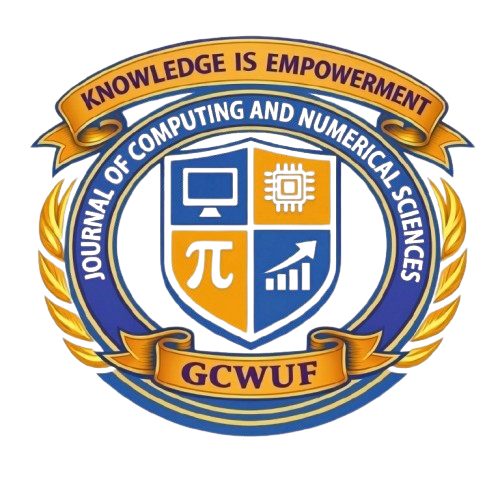
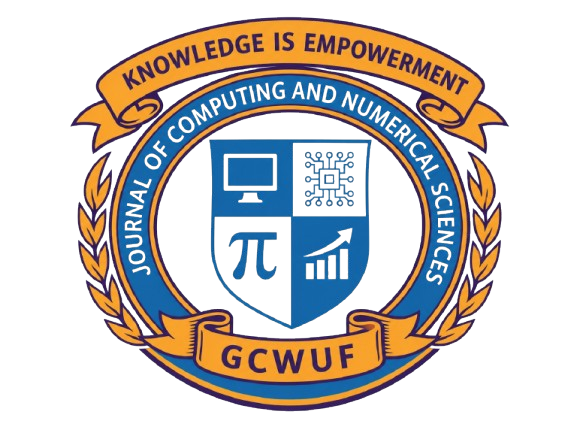
Color changes on homepage

diff --git a/index.html b/index.html
@@ -22,11 +22,7 @@
         }
 
         /* Header Layout */
-        .top-bar {
-            background-color: #1b8415;
-            color: white;
-            padding: 10px 0;
-        }
+        
 
         .header-banner-wrapper {
             position: relative;
@@ -75,13 +71,14 @@
         }
 
         .banner-content h1 {
-            color: #0000ff;
+            color: #3266ac;
+            /* backdrop-filter: blur (10px); */
             margin: 10px 0;
             font-size: 2.2rem;
         }
 
         .row-three {
-            background: radial-gradient(rgba(6, 147, 227, 1) 0%, rgb(155, 81, 224) 100%);
+            background: radial-gradient(#3266ac 100%, #f3c30e 0%);
             padding: 12px 0;
         }
 
@@ -122,11 +119,11 @@
         }
 
         .role-header {
-            color: #0000ff;
+            color: #3266ac;
             font-size: 20px;
             font-weight: bold;
             margin-bottom: 10px;
-            border-bottom: 1px solid #f0f0f0;
+            border-bottom: 1px solid #3266ac;
             padding-bottom: 8px;
         }
 
@@ -178,13 +175,13 @@
         }
 
         .call-title {
-            color: #ff0000;
+            color: #3266ac;
             font-size: 22px;
             font-weight: bold;
         }
 
         .call-month {
-            color: #0000ff;
+            color: #3266ac;
             font-size: 20px;
             font-weight: bold;
             margin-bottom: 10px;
@@ -193,7 +190,8 @@
         .author-desk-title {
             text-align: left;
             font-size: 22px;
-            border-bottom: 3px solid #1b8415;
+            border-bottom: 3px solid #3266ac;
+            border-color: #3266ac;
             padding-bottom: 5px;
             margin-bottom: 15px;
             font-weight: bold;
@@ -216,7 +214,7 @@
 
         .sidebar-list li::before {
             content: '▶';
-            color: #1b8415;
+            color: #3266ac;
             font-size: 10px;
             margin-right: 10px;
         }
@@ -234,6 +232,7 @@
         }
 
         .vc-container {
+            color: #3266ac;
             max-width: 1100px;
             margin: auto;
             display: flex;
@@ -269,7 +268,8 @@
         }
 
         .vc-content h2 {
-            border-bottom: 2px solid #1e3a8a;
+            color: #3266ac;
+            border-bottom: 2px solid ;
             padding-bottom: 8px;
             margin-bottom: 15px;
         }
@@ -320,11 +320,11 @@
                 <div class="banner-content">
                     <div class="container">
                         <img src="uni.png" alt="GCWUF" height="150px" align="left">
-                        <img src="journal.png" alt="Journal FCNS" height="250px">
+                        <img src="journal.png" alt="Journal FCNS" height="200px">
                         <img src="logo.png" alt="Logo" height="150px" align="right">
                         <h1>Journal of Computing and Numerical Sciences</h1>
                         <p>A National Peer-Reviewed Journal</p>
-                        <h3>ISSN: <span style="color: #339966;">0000-1111</span></h3>
+                        <h3 style="color: #3266ac;">ISSN: <span style="color: #f3c30e;">0000-1111</span></h3>
                     </div>
                 </div>
             </div>
@@ -356,7 +356,7 @@
         <div class="main-layout">
             <section class="content-side">
                 <div class="entry-content">
-                    <h2>Welcome to The FCNS Journal</h2>
+                    <h2 style="color: #3266ac;">Welcome to The FCNS Journal</h2>
                     <h3 style="color: #000;">DOI: 00.00000/FCNS | Impact Factor: 0.000 | ISSN: 0000-1111</h3>
 
                     <p><strong>Faculty of Computing and Numerical Science (FCNS)</strong> is an nationally
@@ -408,8 +408,7 @@
                         <div class="vc-image">
                             <img src="img2.jpeg" alt="Coordinator">
                             <h4>PROF. DR. SAIMA AKRAM</h4>
-                            <p>Professor,Mathematics
-                                Chairparson</p>
+                            <p>Coordinator of Faculty of Computing and Numerical Sciences</p>
                         </div>
 
                         <!-- Text Side -->
@@ -441,41 +440,41 @@
 
             <aside class="secondary-sidebar">
                 <div >
-                    <img src="title.jpeg" alt="" height="500px" width="400px">
+                    <img src="title.jpeg" alt="" height="500px" width="450px">
                 </div>
                 <div class="call_for_paper">
-                    <h3 style="color: red; margin-top: 0;">Call for Articles</h3>
+                    <h3 style="color: #3266ac; margin-top: 0; border-color: #3266ac;">Call for Articles</h3>
                     <p>February 2026</p>
                     <p><strong>Last Date:</strong> 25/02/2026</p>
                 </div>
                 <div class="sidebar-card">
                     <div class="author-desk-title">Author's Desk</div>
                     <ul class="sidebar-list">
-                        <li>AIM & SCOPE</li>
-                        <li><a href="authors.html">AUTHOR GUIDELINES</a></li>
-                        <li>JOIN AS REVIEWER</li>
-                        <li>PEER REVIEW PROCESS</li>
-                        <li>PUBLICATION ETHICS</li>
-                        <li><a href="plag.html">PLAGIARISM POLICY</a></li>
-                        <li>INDEXING</li>
+                        <li><a href="#" style="color: #3266ac;">AIM & SCOPE</a></li>
+                        <li><a href="authors.html" style="color: #3266ac;">AUTHOR GUIDELINES</a></li>
+                        <li><a href="#" style="color: #3266ac;">JOIN AS REVIEWER</a></li>
+                        <li><a href="#" style="color: #3266ac;">PEER REVIEW PROCESS</a></li>
+                        <li><a href="#" style="color: #3266ac;">PUBLICATION ETHICS</a></li>
+                        <li><a href="plag.html" style="color: #3266ac;">PLAGIARISM POLICY</a></li>
+                        <li><a href="#" style="color: #3266ac;">INDEXING</a></li>
                     </ul>
                 </div>
             </aside>
         </div>
     </main>
 
-    <footer>
+    <footer style="background-color: #3266ac; color: #ffffff;">
         <div class="container footer-content">
             <div class="quick-links">
-                <h3>Quick Links</h3>
-                <ul>
-                    <li><a href="#">Copyright Form</a></li>
-                    <li><a href="#">Check Paper Status</a></li>
-                    <li><a href="#">Privacy Policy</a></li>
+                <h3 style="color: #ffffff;">Quick Links</h3>
+                <ul style="color: #ffffff;">
+                    <li><a href="#" style="color: #ffffff;">Copyright Form</a></li>
+                    <li><a href="#" style="color: #ffffff;">Check Paper Status</a></li>
+                    <li><a href="#" style="color: #ffffff;">Privacy Policy</a></li>
                 </ul>
             </div>
             <div class="contact-info">
-                <h3>Contact Us</h3>
+                <h3 style="color: #ffffff;">Contact Us</h3>
                 <p>Government College Women University Faisalabad,</p>
                 <p>Email: fcns.journal@gcwuf.edu.pk</p>
             </div>
@@ -484,7 +483,7 @@
             <div class="copyright">
                 Designed by <strong><span><a
                             href="https://depart.gcwuf.edu.pk/teaching/computerscience/teacher.php?t=2338"
-                            target="_blank">Fayqa Manan</a></span></strong>.
+                            target="_blank" style="color: #ffffff;">Fayqa Manan</a></span></strong>.
             </div>
         </div>
     </footer>

diff --git a/style.css b/style.css
@@ -111,7 +111,7 @@
 
         .call_for_paper {
             text-align: center;
-            border: 2px solid #ff0000;
+            border: 2px solid #3266ac;
             padding: 15px;
             margin-bottom: 20px;
         }
@@ -132,6 +132,7 @@
         .quick-links ul {
             list-style: none;
             padding: 0;
+            color: #ffffff;
         }
 
         .quick-links a {

diff --git a/archive.html b/archive.html
@@ -333,7 +333,7 @@
             <div class="copyright">
                 Designed by <strong><span><a
                             href="https://depart.gcwuf.edu.pk/teaching/computerscience/teacher.php?t=2338"
-                            target="_blank">Fayqa Manan</a>/span></strong>.
+                            target="_blank">Fayqa Manan</span></a></strong>.
             </div>
 
         </div>

diff --git a/contact.html b/contact.html
@@ -349,7 +349,7 @@
             <div class="copyright">
                 Designed by <strong><span><a
                             href="https://depart.gcwuf.edu.pk/teaching/computerscience/teacher.php?t=2338"
-                            target="_blank">Fayqa Manan</a>/span></strong>.
+                            target="_blank">Fayqa Manan</span></a></strong>.
             </div>
 
         </div>
